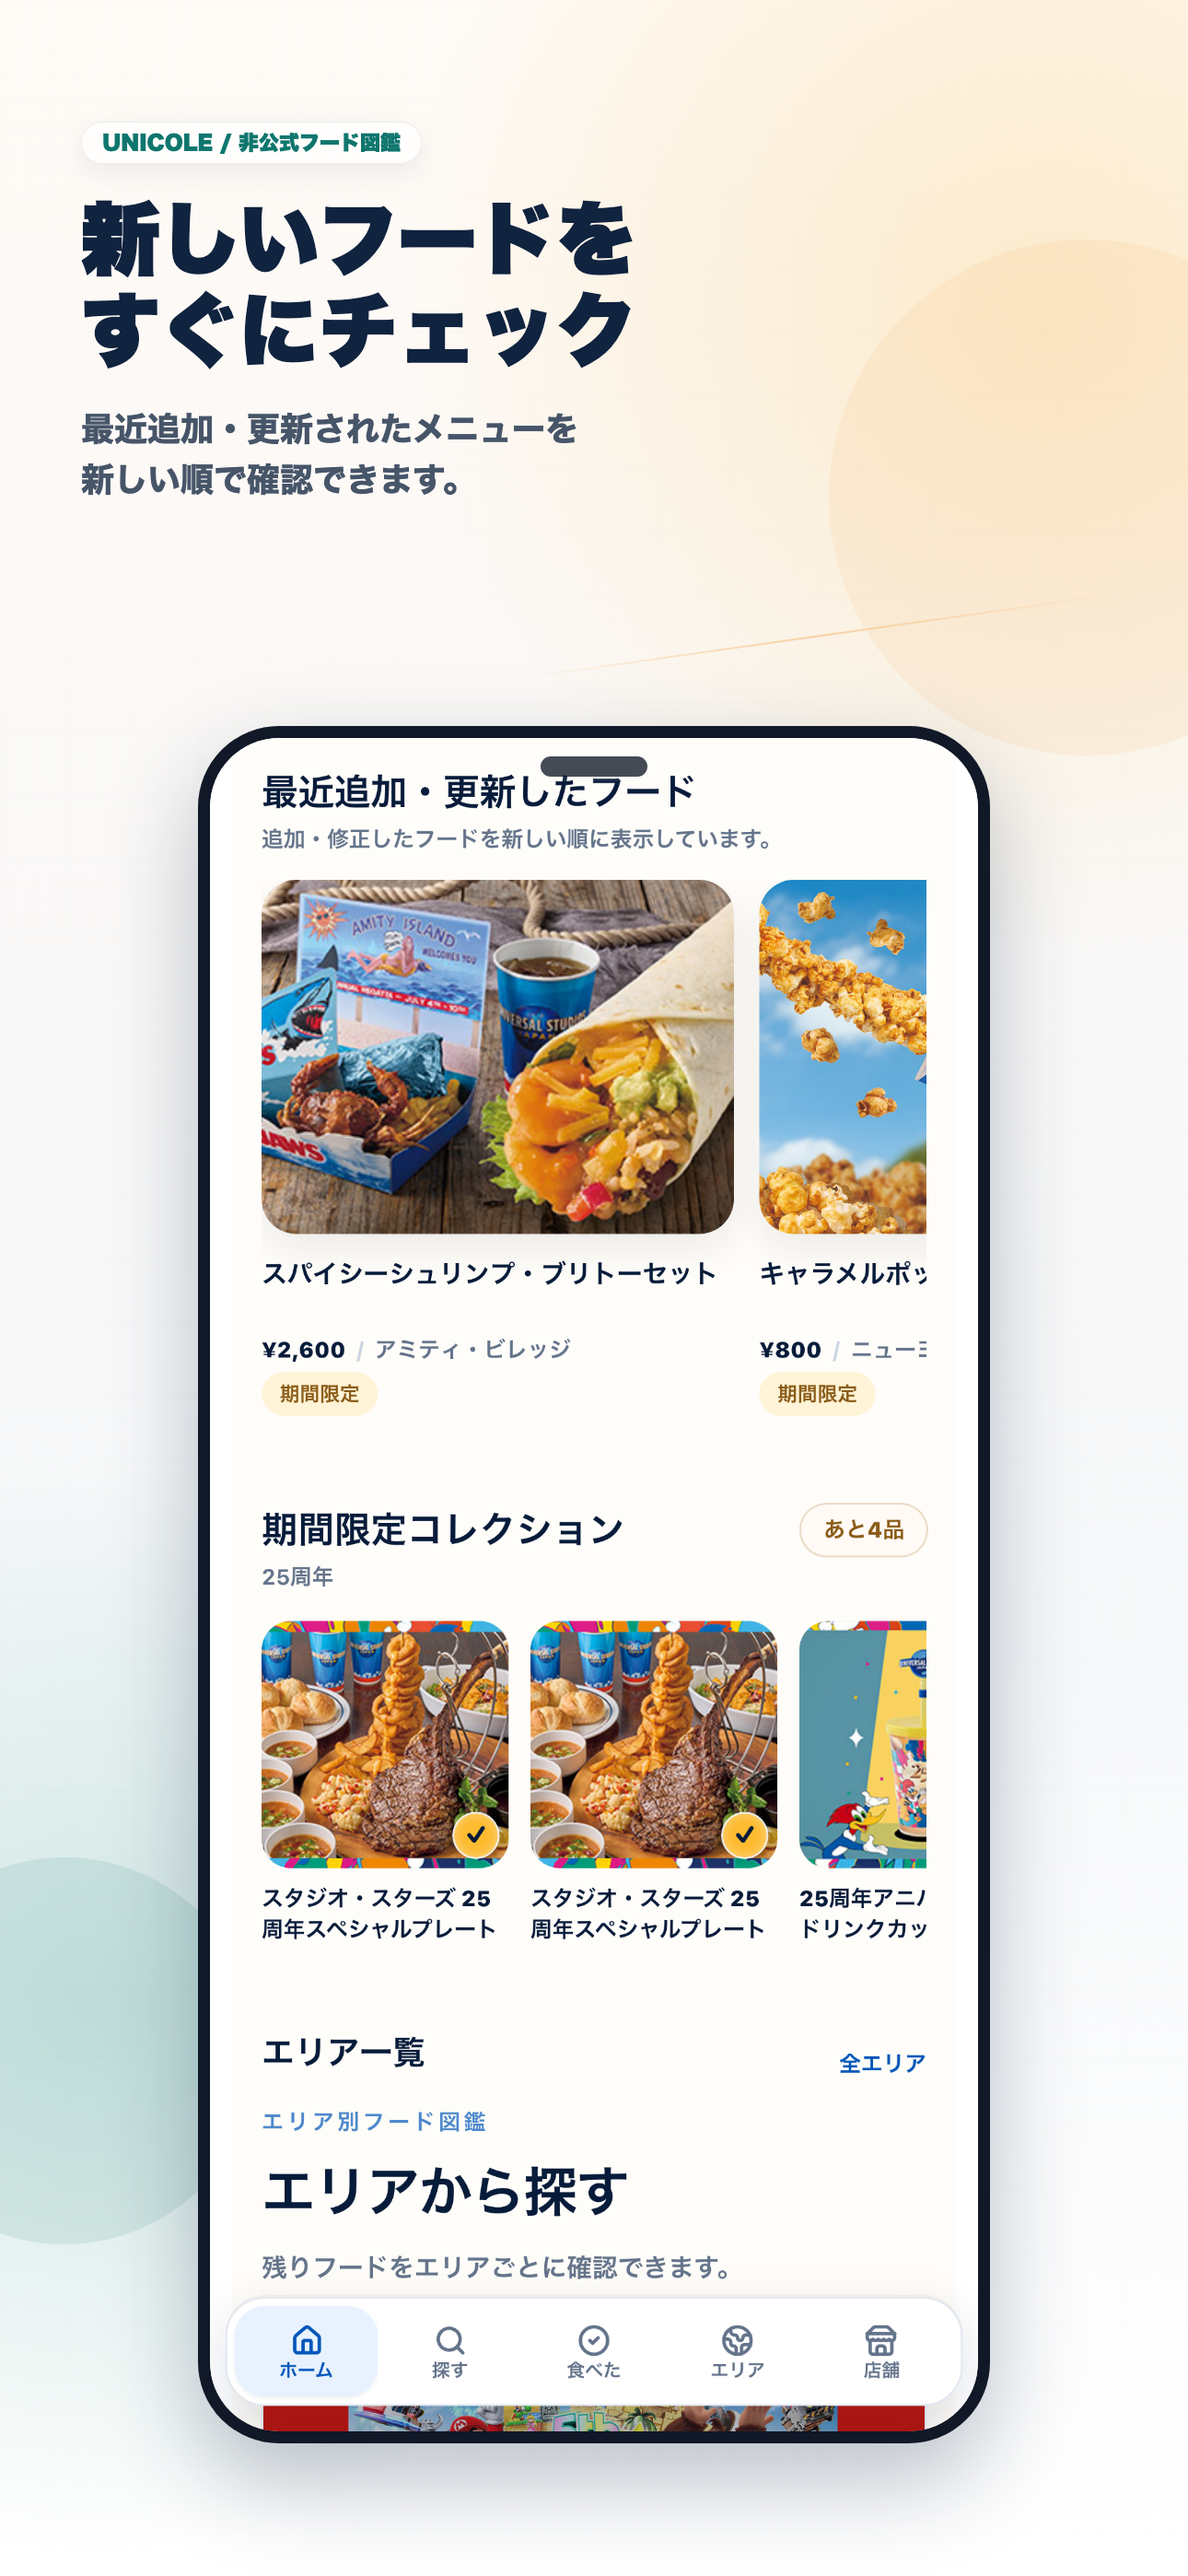
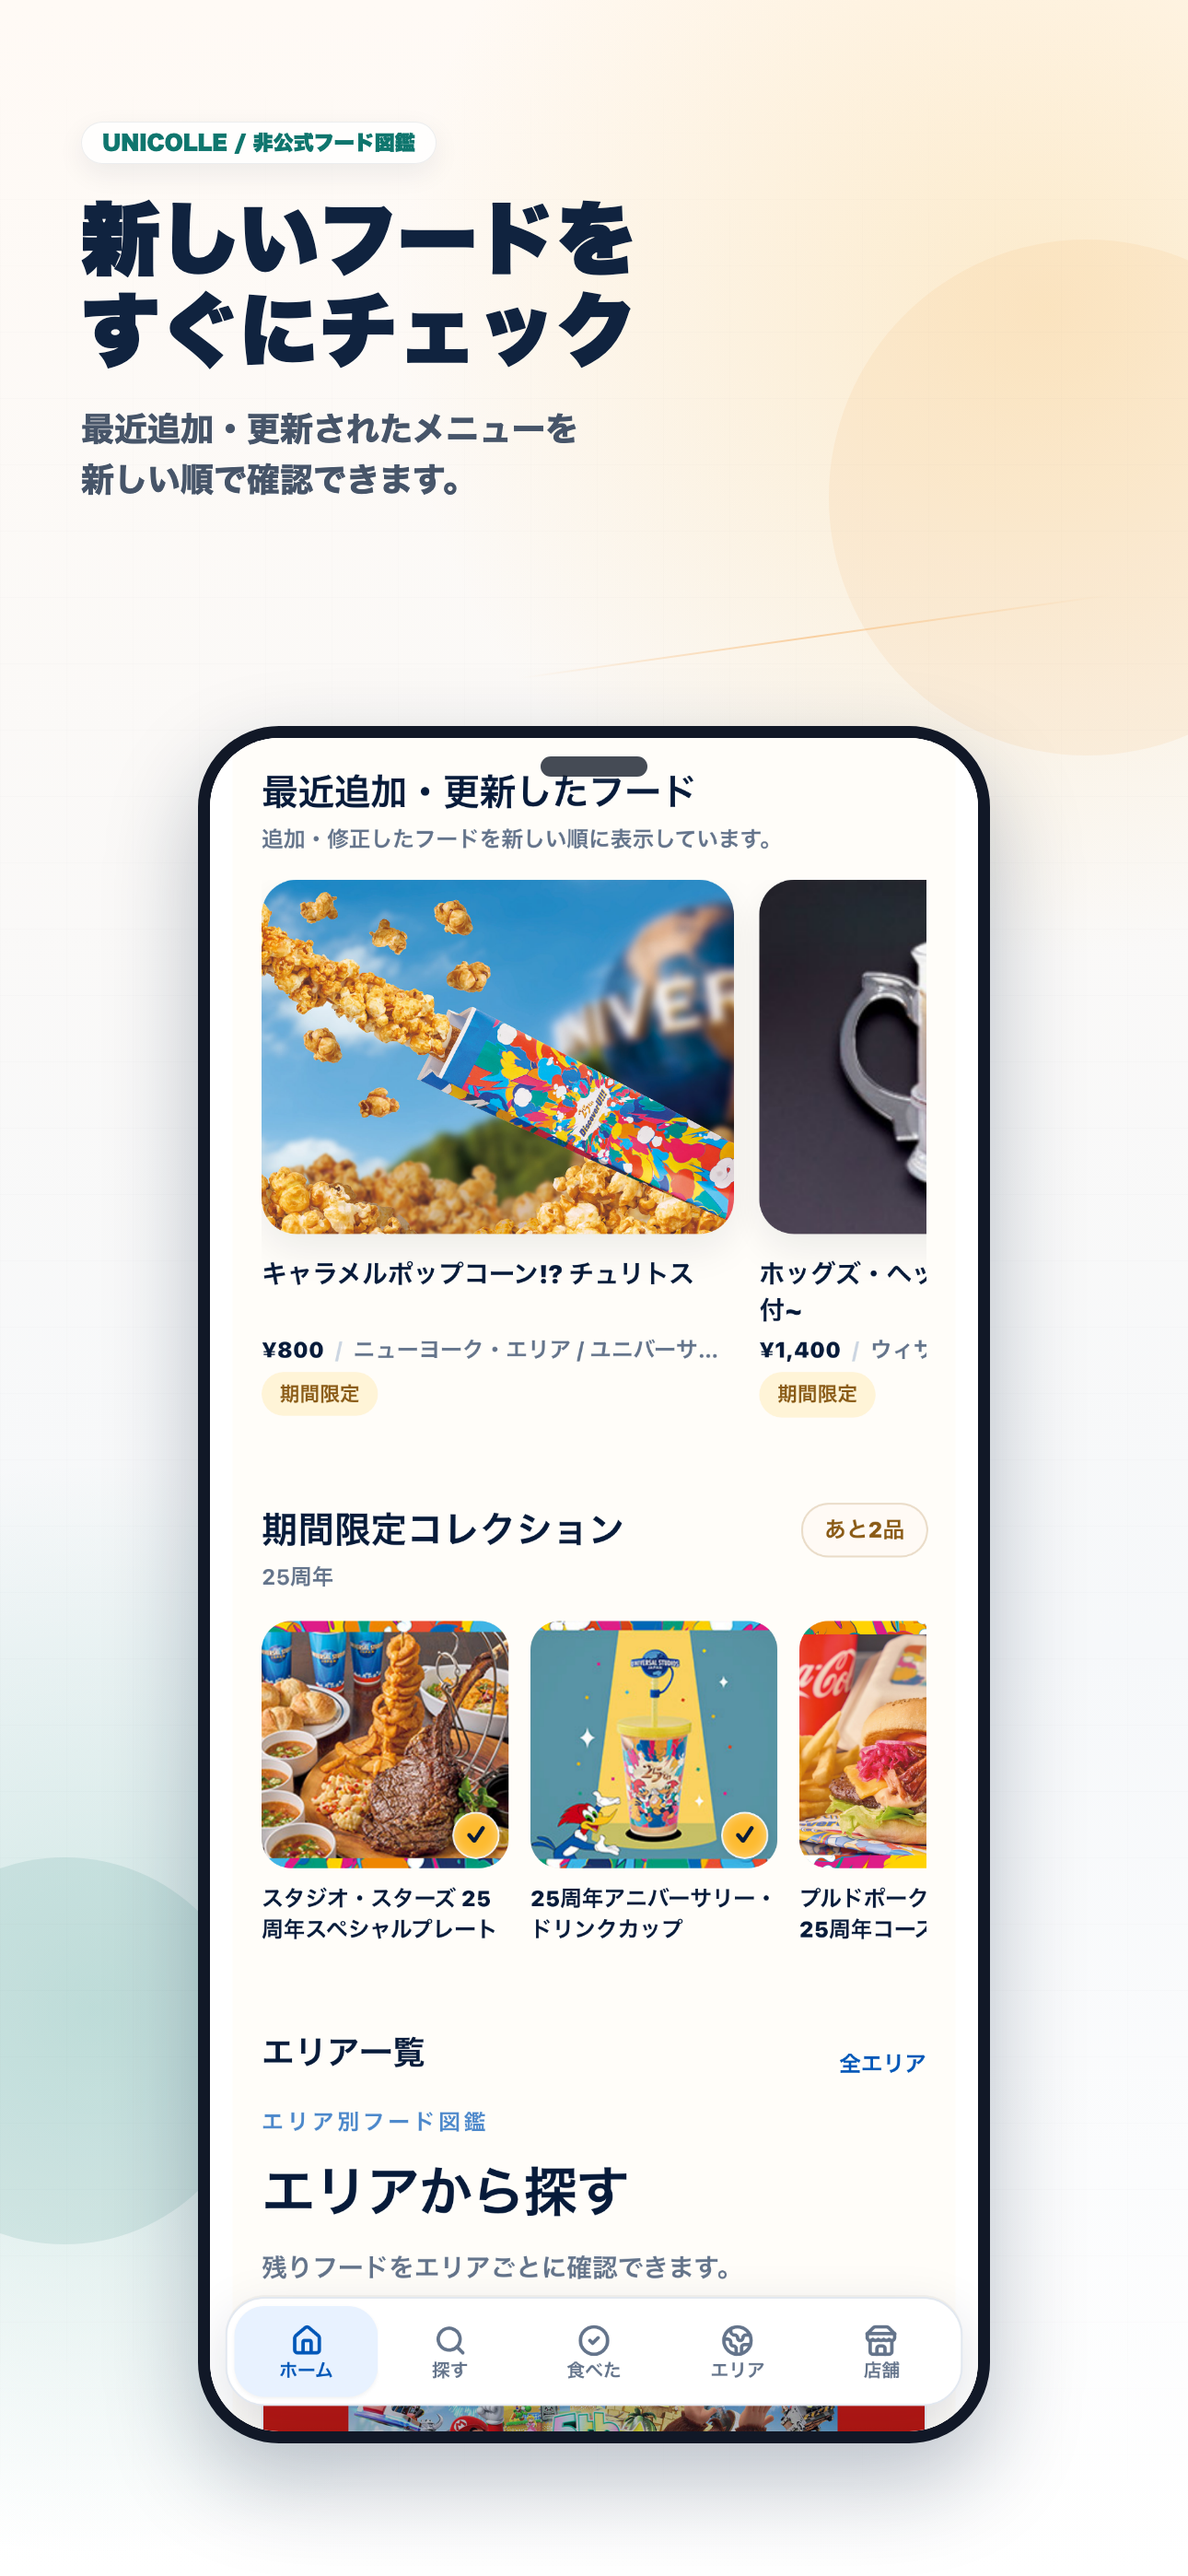
fix: dedupe home sections and regenerate app store screenshots

Changed region(s): [[0.2171, 0.3423, 0.8062, 0.529], [0.4341, 0.6223, 0.8062, 0.7779], [0.186, 0.0311, 0.3411, 0.0622]]

diff --git a/components/home-progress-client.tsx b/components/home-progress-client.tsx
@@ -9,7 +9,8 @@ import {
   getEatenCanonicalKeys,
   getFoodAreaSummary,
   getRemainingDays,
-  isCompletableFood
+  isCompletableFood,
+  normalizeFoodName
 } from "@/lib/food-utils";
 import type { TranslationKey } from "@/lib/i18n/dictionaries";
 import { formatPriceI18n } from "@/lib/i18n/format-price";
@@ -323,20 +324,20 @@ function pickActiveCollectionFoods(foods: FoodWithRelations[], logs: UserFoodLog
 }
 
 function buildLimitedCollection(foods: FoodWithRelations[]) {
-  const activeFoods = dedupeFoodsByCanonical(foods.filter((food) => isCompletableFood(food) && hasDisplayImage(food)));
+  const activeFoods = dedupeHomeSectionFoods(foods.filter((food) => isCompletableFood(food) && hasDisplayImage(food)));
   const grouped = new Map<string, FoodWithRelations[]>();
 
   activeFoods.forEach((food) => {
     [food.eventName, food.collaborationName].forEach((value) => {
       const key = value?.trim();
       if (!key) return;
-      grouped.set(key, [...(grouped.get(key) ?? []), food]);
+      grouped.set(key, addHomeSectionFood(grouped.get(key) ?? [], food));
     });
   });
 
   const eventGroup = Array.from(grouped.entries())
     .map(([title, groupFoods]) => {
-      const candidateFoods = groupFoods.filter(isLimitedCollectionCandidate);
+      const candidateFoods = dedupeHomeSectionFoods(groupFoods.filter(isLimitedCollectionCandidate));
       return {
         title,
         foods: candidateFoods,
@@ -350,14 +351,30 @@ function buildLimitedCollection(foods: FoodWithRelations[]) {
     .sort((a, b) => b.foods.length - a.foods.length || a.title.localeCompare(b.title, "ja"))[0];
   if (eventGroup) return { title: eventGroup.title, foods: eventGroup.foods, stage: "event" as const };
 
-  const keywordFoods = activeFoods.filter(matchesFeaturedLimitedCollection).slice(0, LIMITED_COLLECTION_MAX);
+  const keywordFoods = dedupeHomeSectionFoods(activeFoods.filter(matchesFeaturedLimitedCollection)).slice(0, LIMITED_COLLECTION_MAX);
   if (keywordFoods.length > 0) {
     return { title: featuredLimitedCollection.title, foods: keywordFoods, stage: "featured" as const };
   }
 
-  const limitedFoods = activeFoods.filter((food) => food.isLimited);
+  const limitedFoods = dedupeHomeSectionFoods(activeFoods.filter((food) => food.isLimited));
   if (limitedFoods.length > 0 && limitedFoods.length <= LIMITED_COLLECTION_MAX) return { title: "期間限定", foods: limitedFoods, stage: "limited" as const };
   return null;
+}
+
+function dedupeHomeSectionFoods(foods: FoodWithRelations[]) {
+  return dedupeFoodsByCanonical(foods).reduce<FoodWithRelations[]>((selected, food) => addHomeSectionFood(selected, food), []);
+}
+
+function addHomeSectionFood(selected: FoodWithRelations[], food: FoodWithRelations) {
+  const canonicalKey = getCanonicalFoodKey(food);
+  const visualKey = getHomeSectionVisualKey(food);
+  if (selected.some((item) => getCanonicalFoodKey(item) === canonicalKey || getHomeSectionVisualKey(item) === visualKey)) return selected;
+  return [...selected, food];
+}
+
+function getHomeSectionVisualKey(food: FoodWithRelations) {
+  const imageKey = food.imageUrl ?? food.images?.find((image) => image.enabled && image.imageUrl)?.imageUrl ?? "";
+  return [normalizeFoodName(food.name), imageKey, food.category].join("|");
 }
 
 function pickRecentEatenFoods(foods: FoodWithRelations[], logs: UserFoodLog[]) {

diff --git a/scripts/app-store-screenshots/create-app-store-screenshots.ts b/scripts/app-store-screenshots/create-app-store-screenshots.ts
@@ -18,6 +18,7 @@ type CapturedScreen = {
   path: string;
   scrollText?: string;
   scrollY?: number;
+  afterScrollScript?: string;
 };
 
 type Slide = {
@@ -98,7 +99,20 @@ const localStorageSeed: Record<string, unknown> = {
 
 const screens: CapturedScreen[] = [
   { key: "home", path: "/" },
-  { key: "recent", path: "/", scrollText: "最近追加・更新したフード" },
+  {
+    key: "recent",
+    path: "/",
+    scrollText: "最近追加・更新したフード",
+    afterScrollScript: `
+      (() => {
+        const heading = Array.from(document.querySelectorAll("h1,h2,h3"))
+          .find((el) => (el.textContent || "").includes("最近追加・更新したフード"));
+        const section = heading?.closest("section");
+        const rail = section?.querySelector("[class*='overflow-x-auto']");
+        if (rail) rail.scrollLeft = 245;
+      })();
+    `
+  },
   { key: "search", path: "/foods?category=burger&sale=active" },
   { key: "detail", path: "/foods/food-u0o9uo" },
   { key: "eatenAction", path: "/foods/food-u0o9uo", scrollY: 370 },
@@ -194,7 +208,7 @@ const slides: Slide[] = [
   {
     filename: "10_summary.png",
     title: "フードめぐりを、\nもっと楽しく。",
-    subtitle: "UNICOLEは、パークフードを探して\n記録できる非公式アプリです。",
+    subtitle: "UNICOLLEは、パークフードを探して\n記録できる非公式アプリです。",
     footnote: "このアプリはユニバーサル・スタジオ・ジャパンの\n公式アプリではありません。",
     screenKeys: ["home", "search", "eaten"],
     accent: "#10233f",
@@ -387,6 +401,10 @@ async function captureAppScreen(port: number, screen: CapturedScreen, tempDir: s
       await cdp.send("Runtime.evaluate", {
         expression: `window.scrollTo({ top: ${screen.scrollY}, behavior: "instant" });`
       });
+      await delay(700);
+    }
+    if (screen.afterScrollScript) {
+      await cdp.send("Runtime.evaluate", { expression: screen.afterScrollScript });
       await delay(700);
     }
     await cdp.send("Runtime.evaluate", {
@@ -604,7 +622,7 @@ function slideHtml(slide: Slide, screenImages: Record<string, string>) {
         <div class="motif"></div>
         ${pinMarkup(slide.motif)}
         <header class="header">
-          <div class="kicker">UNICOLE / 非公式フード図鑑</div>
+          <div class="kicker">UNICOLLE / 非公式フード図鑑</div>
           ${iconMarkup}
           <h1 class="title">${escapeHtml(slide.title)}</h1>
           <p class="subtitle">${escapeHtml(slide.subtitle)}</p>
